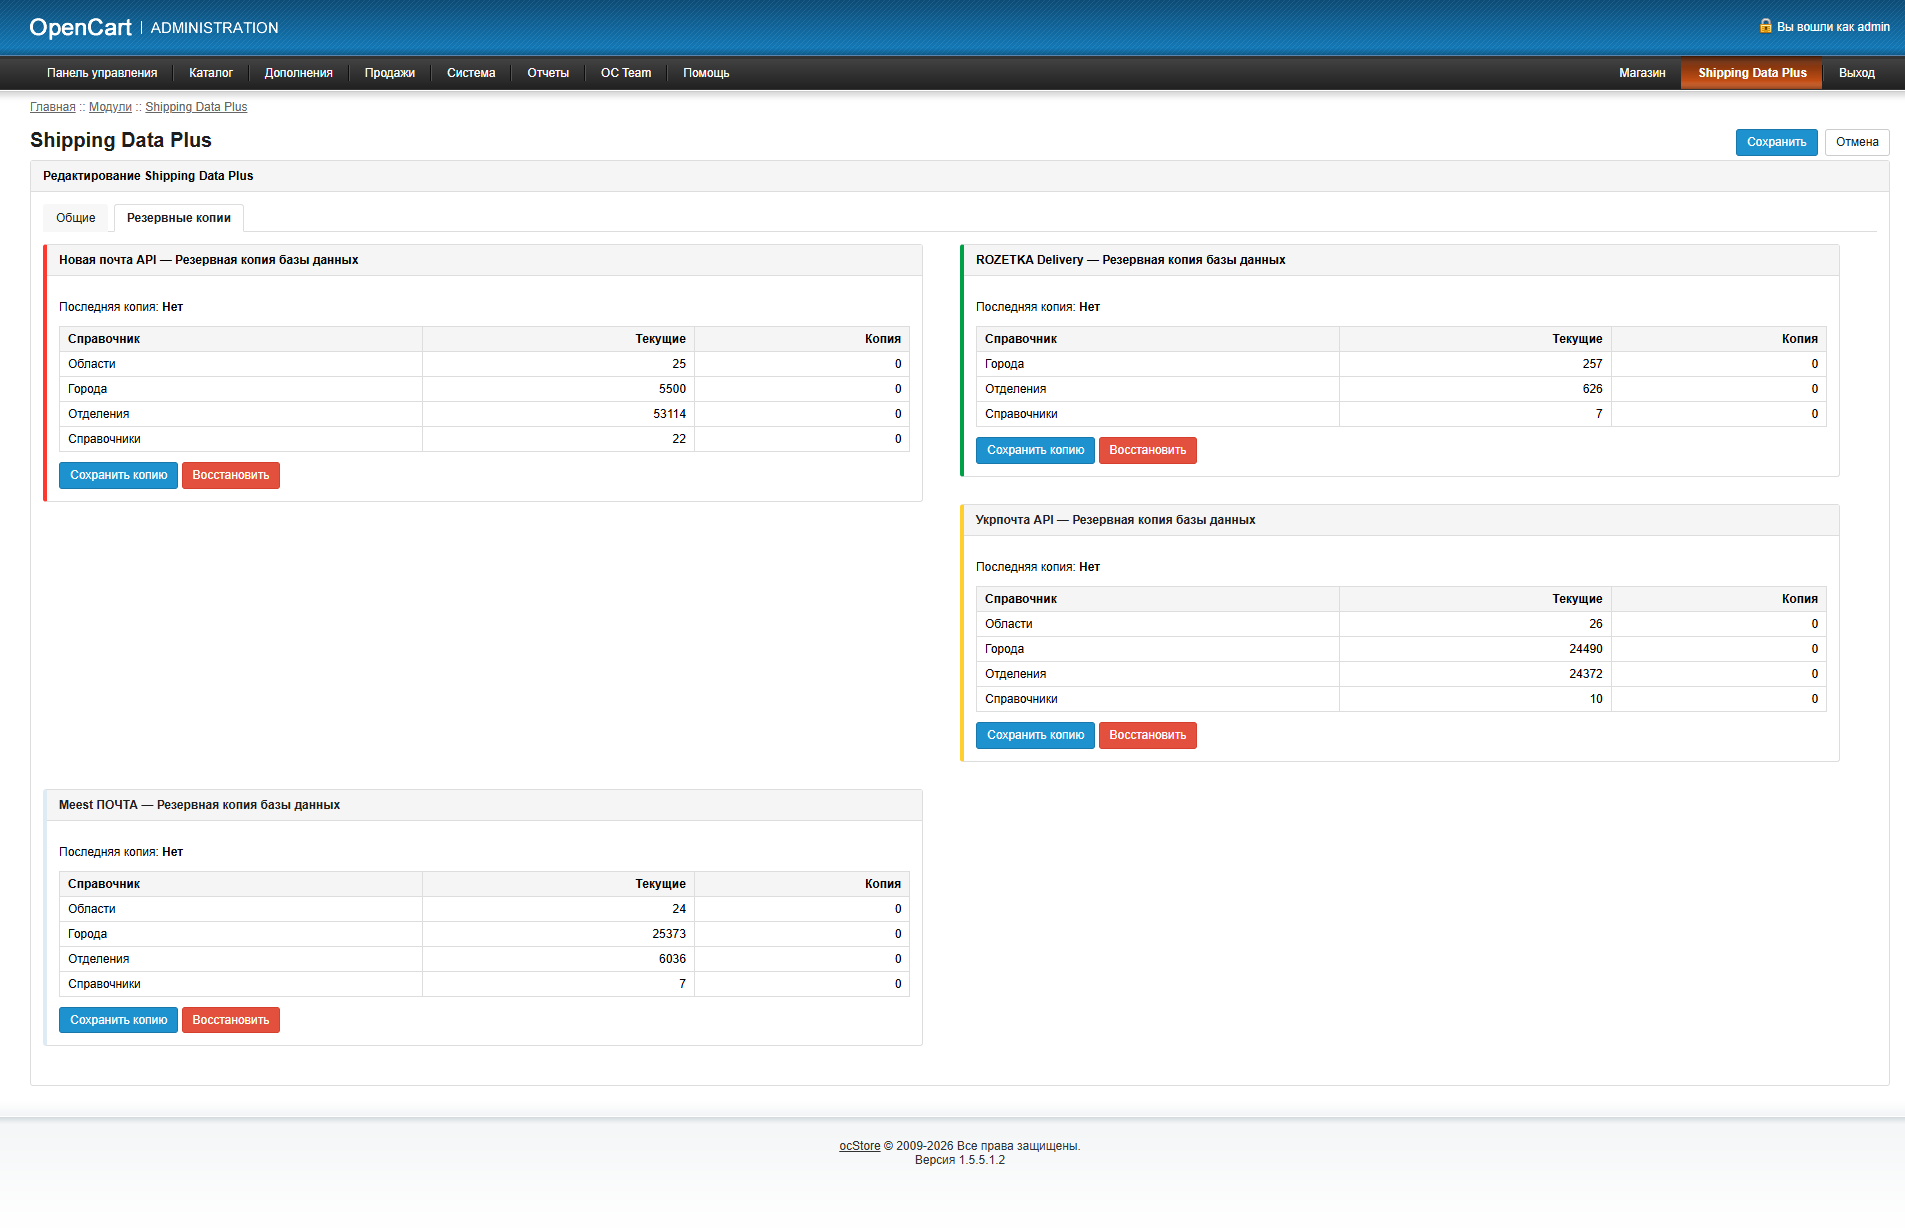
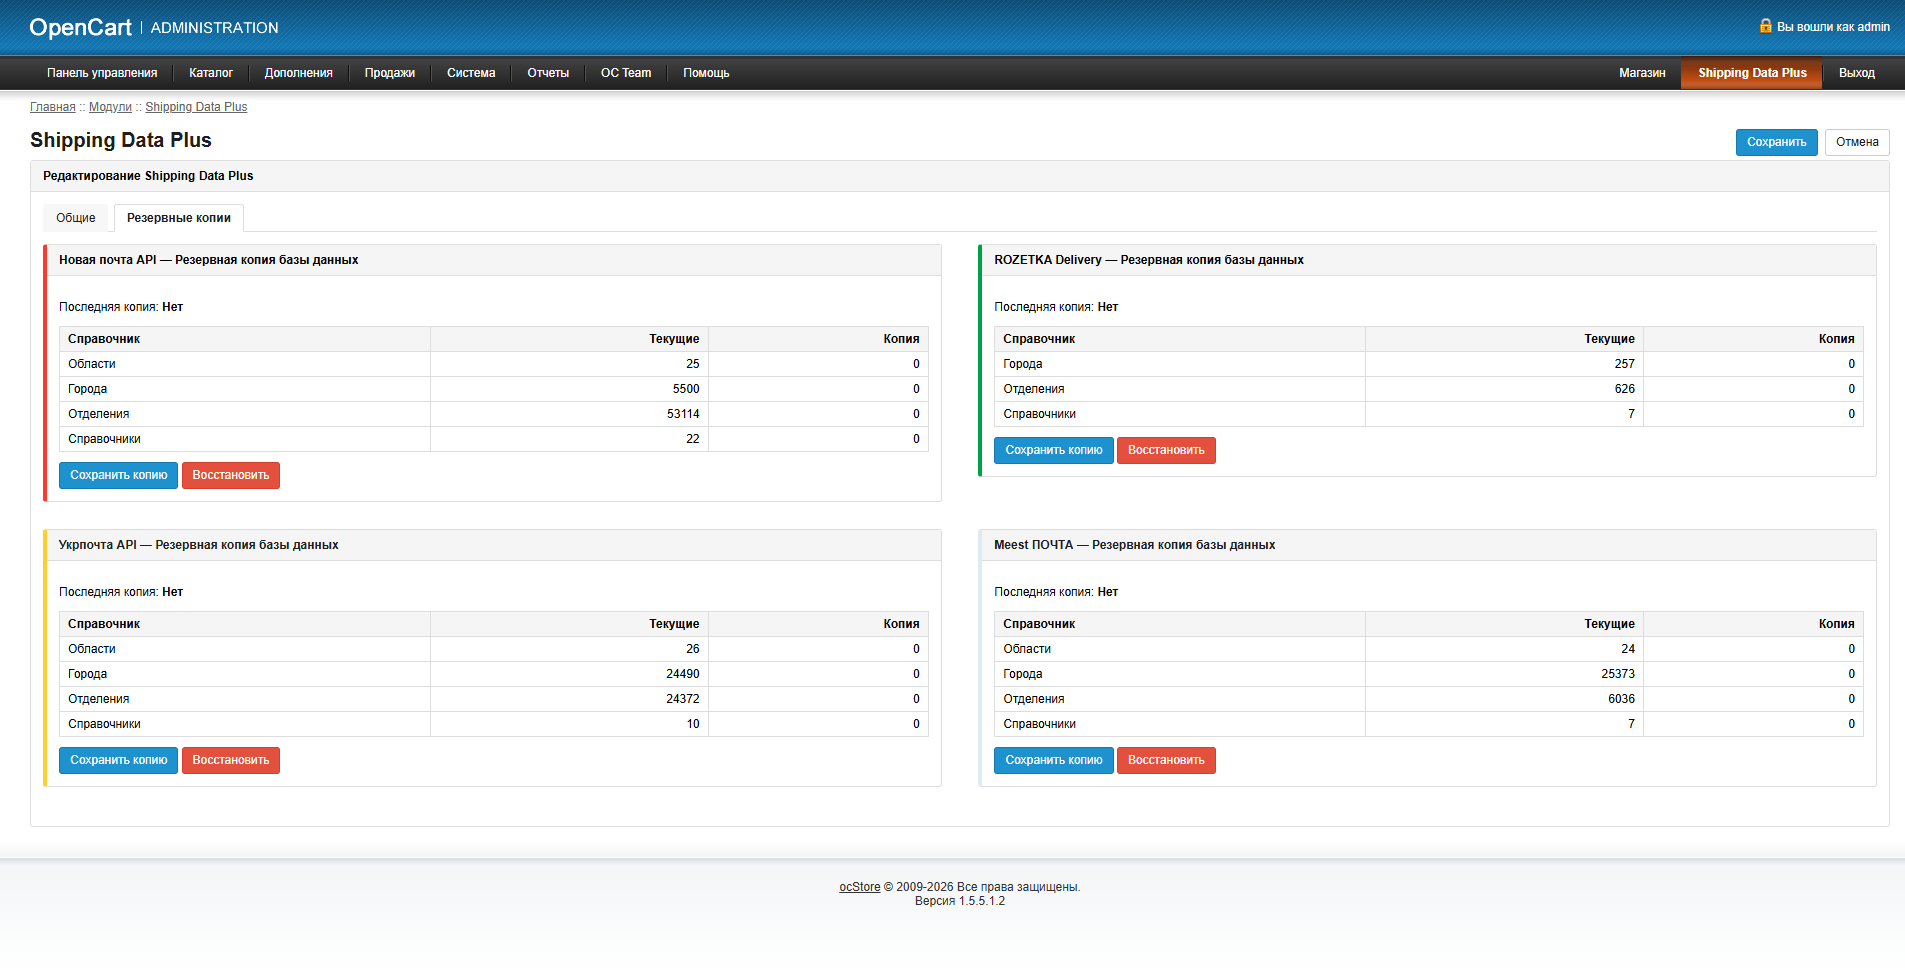
Keep the OpenCart 1.5 backup cards in two even columns and recapture that screenshot.

diff --git a/OpenCart 1.5.X.X/upload/admin/view/stylesheet/shippingdata_plus.css b/OpenCart 1.5.X.X/upload/admin/view/stylesheet/shippingdata_plus.css
@@ -35,7 +35,8 @@ button.sdp-btn { font-family: inherit; }
 .sdp-table thead td { background: #f5f5f5; font-weight: bold; }
 .sdp-right { text-align: right; }
 .sdp-cols { overflow: hidden; }
-.sdp-col { float: left; width: 48%; margin: 0 2% 12px 0; }
+.sdp-col { float: left; width: 49%; margin: 0 0 12px; }
+.sdp-col:nth-child(odd) { clear: left; margin-right: 2%; }
 .sdp-carrier { border-left: 4px solid #1e91cf; }
 .sdp-carrier-novaposhta { border-left-color: #ff392e; }
 .sdp-carrier-rozetka_delivery { border-left-color: #00A046; }
